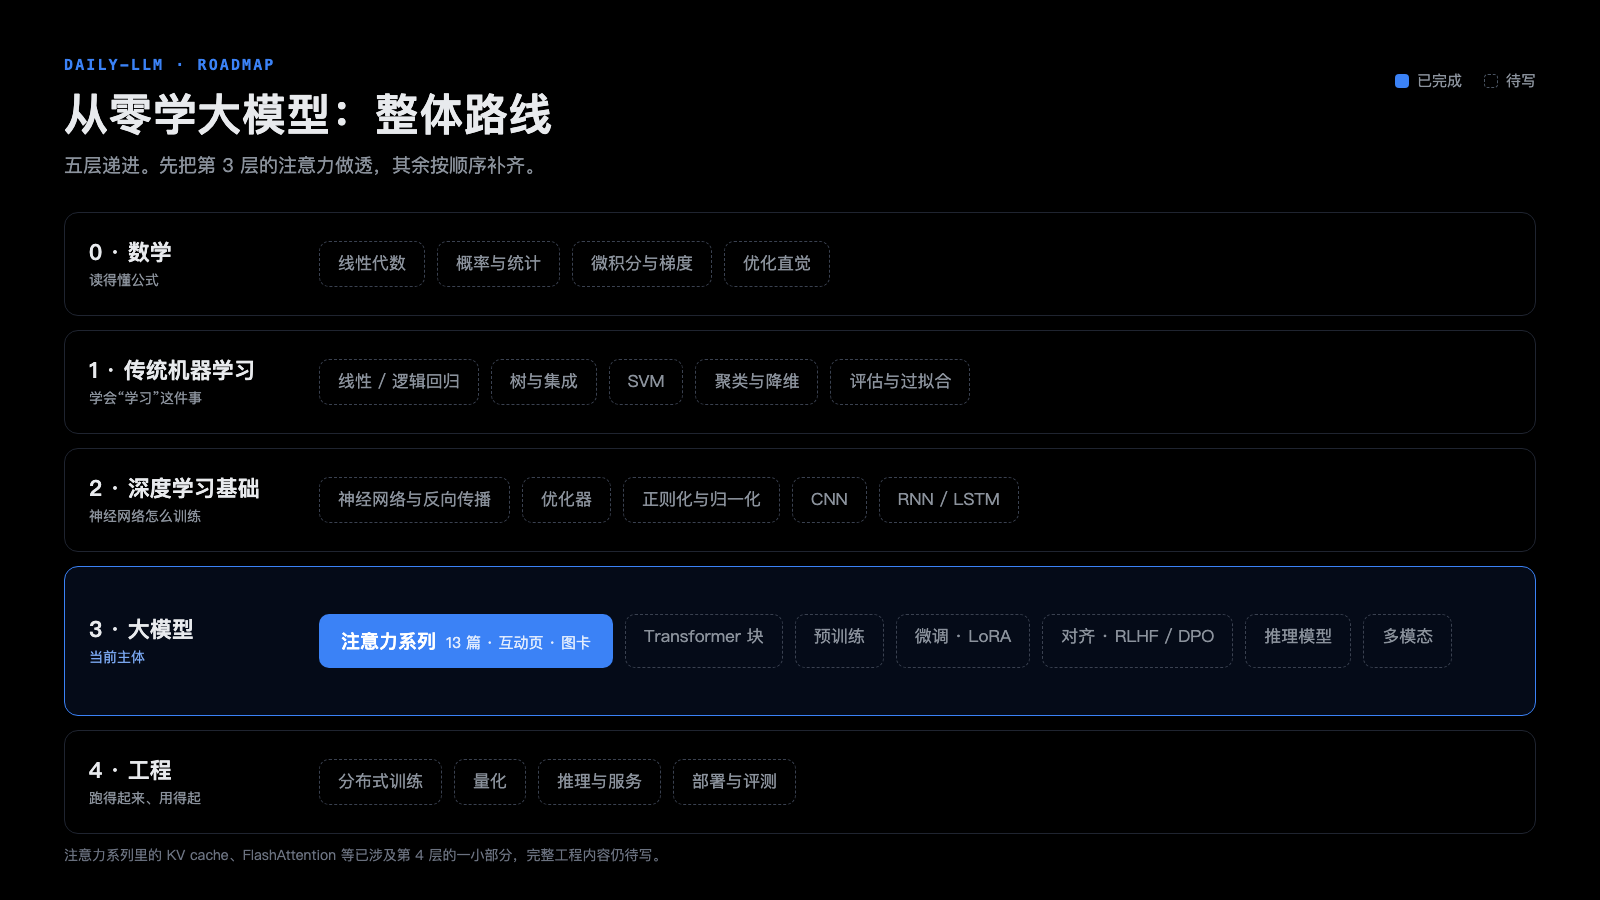
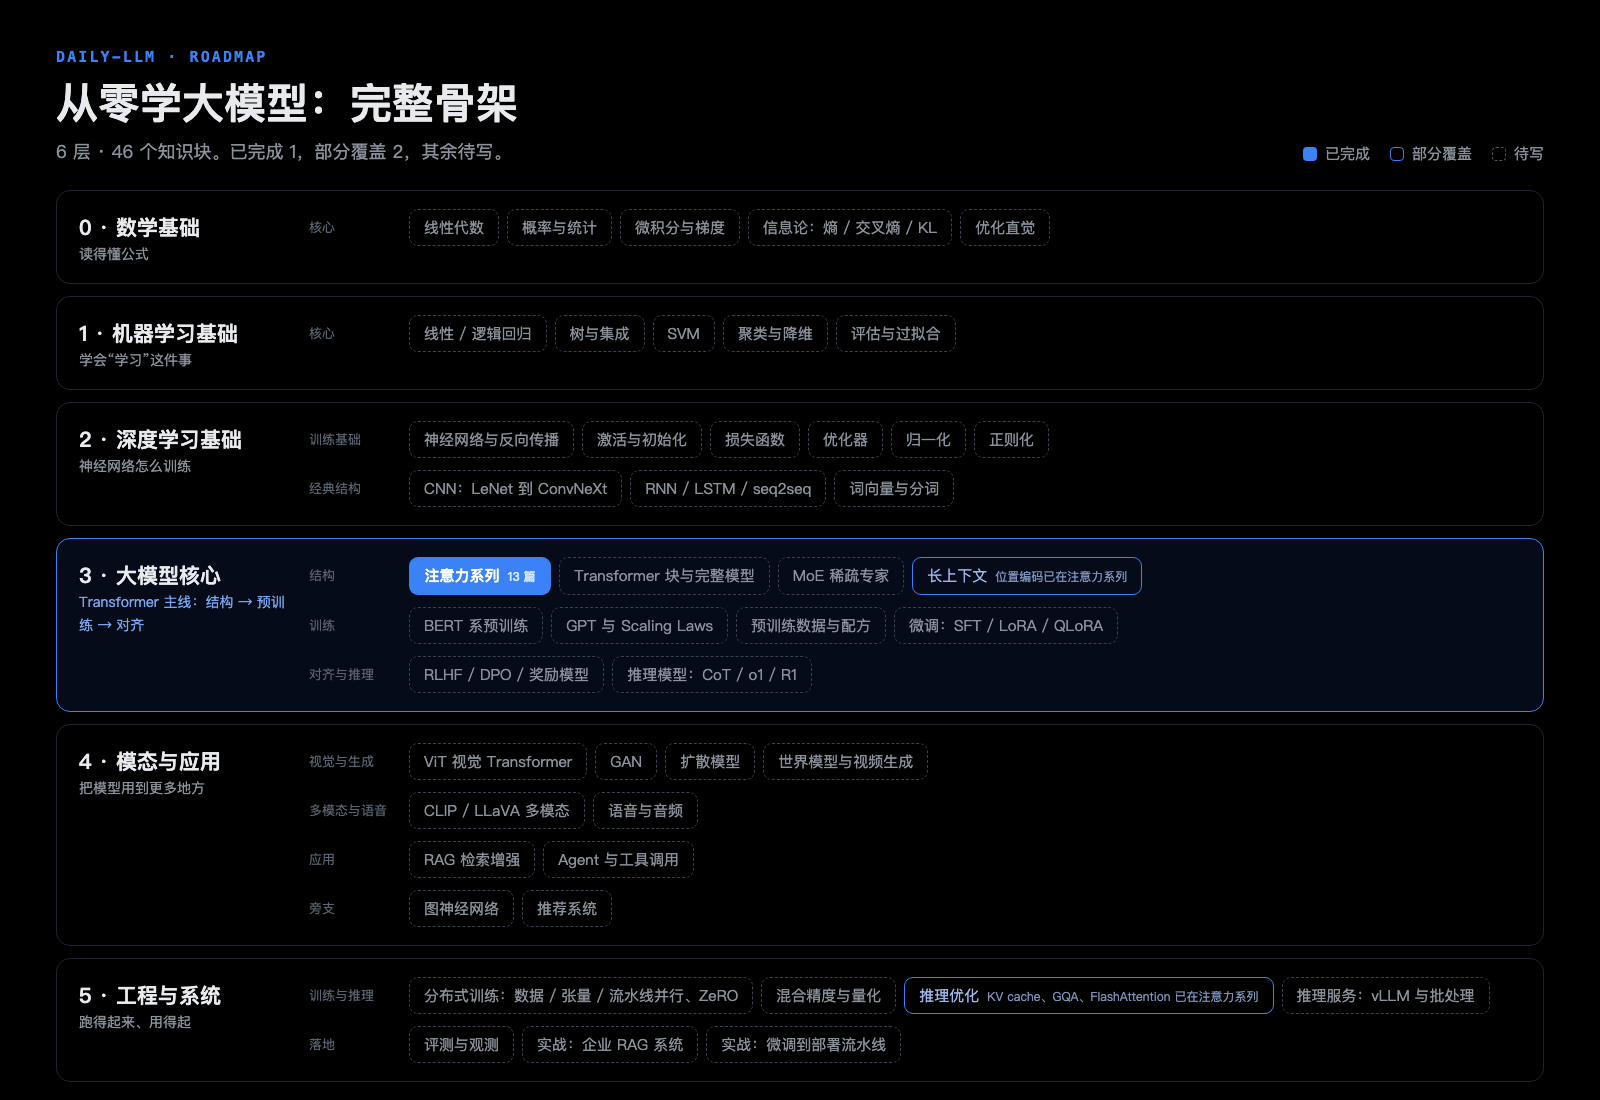
docs: 完整骨架路线图（6 层 46 个知识块，数据源 roadmap.json）

diff --git a/.github/assets/roadmap.html b/.github/assets/roadmap.html
@@ -1,35 +1,38 @@
 <!doctype html><html lang="zh-CN"><meta charset="utf-8"><style>
 *{box-sizing:border-box;margin:0}
-body{width:1600px;height:900px;background:#000;color:#e8eaed;font:16px/1.4 "PingFang SC","SF Pro Text",-apple-system,sans-serif;padding:56px 64px}
-.k{font:700 15px "SF Mono",Menlo,monospace;letter-spacing:.14em;color:#3b82f6}
-h1{font-size:44px;margin:10px 0 6px;letter-spacing:.01em}
-.sub{color:#8b929c;font-size:19px}
-.leg{position:absolute;right:64px;top:70px;display:flex;gap:22px;color:#8b929c;font-size:15px;align-items:center}
+body{width:1600px;background:#000;color:#e8eaed;font:16px/1.4 "PingFang SC","SF Pro Text",-apple-system,sans-serif;padding:48px 56px 40px}
+.k{font:700 15px Menlo,monospace;letter-spacing:.14em;color:#3b82f6}
+h1{font-size:42px;margin:8px 0 6px}.sub{color:#8b929c;font-size:18px}
+.top{display:flex;justify-content:space-between;align-items:flex-end}
+.leg{display:flex;gap:20px;color:#8b929c;font-size:15px;align-items:center}
 .dot{display:inline-block;width:14px;height:14px;border-radius:4px;margin-right:8px;vertical-align:-2px}
-.d1{background:#3b82f6}.d2{border:1.5px dashed #4b5563}
-.rows{margin-top:34px;display:flex;flex-direction:column;gap:14px}
-.row{display:flex;align-items:center;border:1px solid #1f2430;border-radius:14px;padding:0 24px;height:104px}
-.row.on{border-color:#3b82f6;background:#050b18;height:150px}
-.lab{width:230px;flex:none}
-.lab b{display:block;font-size:22px}.lab small{color:#8b929c;font-size:14px}
+.rows{margin-top:26px;display:flex;flex-direction:column;gap:12px}
+.row{display:flex;border:1px solid #1f2430;border-radius:14px;padding:18px 22px;gap:20px}
+.row.on{border-color:#3b82f6;background:#050b18}
+.lab{width:210px;flex:none;padding-top:4px}.lab b{display:block;font-size:21px}.lab small{color:#8b929c;font-size:14px}
 .row.on .lab small{color:#7aa7f0}
-.chips{display:flex;gap:12px;flex-wrap:wrap}
-.c{padding:10px 18px;border-radius:10px;border:1.5px dashed #3a4150;color:#8b929c;font-size:17px}
-.c.ok{background:#3b82f6;border:0;color:#fff;font-weight:700;font-size:19px;padding:14px 22px}
-.c.ok i{font-style:normal;font-weight:400;opacity:.85;margin-left:10px;font-size:15px}
-.arr{position:absolute;left:30px;top:268px;height:540px;width:2px;background:linear-gradient(#1f2430,#3b82f6)}
-.foot{position:absolute;left:64px;bottom:34px;color:#6b7280;font-size:14px}
+.gs{display:flex;flex-direction:column;gap:12px;flex:1}
+.g{display:flex;gap:14px;align-items:flex-start}
+.gn{width:86px;flex:none;color:#5b6472;font-size:13px;padding-top:9px}
+.chips{display:flex;gap:8px;flex-wrap:wrap}
+.c{padding:7px 14px;border-radius:9px;border:1.5px dashed #3a4150;color:#8b929c;font-size:15px}
+.c i{font-style:normal;margin-left:8px;font-size:12px;opacity:.8}
+.c.done{background:#3b82f6;border:0;color:#fff;font-weight:700;padding:8.5px 15.5px}
+.c.partial{border:1.5px solid #3b82f6;color:#9db8ea}
 </style><body>
-<div class="k">DAILY-LLM · ROADMAP</div>
-<h1>从零学大模型：整体路线</h1>
-<div class="sub">五层递进。先把第 3 层的注意力做透，其余按顺序补齐。</div>
-<div class="leg"><span><span class="dot d1"></span>已完成</span><span><span class="dot d2"></span>待写</span></div>
-<div class="rows">
-<div class="row"><div class="lab"><b>0 · 数学</b><small>读得懂公式</small></div><div class="chips"><span class="c">线性代数</span><span class="c">概率与统计</span><span class="c">微积分与梯度</span><span class="c">优化直觉</span></div></div>
-<div class="row"><div class="lab"><b>1 · 传统机器学习</b><small>学会“学习”这件事</small></div><div class="chips"><span class="c">线性 / 逻辑回归</span><span class="c">树与集成</span><span class="c">SVM</span><span class="c">聚类与降维</span><span class="c">评估与过拟合</span></div></div>
-<div class="row"><div class="lab"><b>2 · 深度学习基础</b><small>神经网络怎么训练</small></div><div class="chips"><span class="c">神经网络与反向传播</span><span class="c">优化器</span><span class="c">正则化与归一化</span><span class="c">CNN</span><span class="c">RNN / LSTM</span></div></div>
-<div class="row on"><div class="lab"><b>3 · 大模型</b><small>当前主体</small></div><div class="chips"><span class="c ok">注意力系列<i>13 篇 · 互动页 · 图卡</i></span><span class="c">Transformer 块</span><span class="c">预训练</span><span class="c">微调 · LoRA</span><span class="c">对齐 · RLHF / DPO</span><span class="c">推理模型</span><span class="c">多模态</span></div></div>
-<div class="row"><div class="lab"><b>4 · 工程</b><small>跑得起来、用得起</small></div><div class="chips"><span class="c">分布式训练</span><span class="c">量化</span><span class="c">推理与服务</span><span class="c">部署与评测</span></div></div>
-</div>
-<div class="foot">注意力系列里的 KV cache、FlashAttention 等已涉及第 4 层的一小部分，完整工程内容仍待写。</div>
-</body></html>
+<div class="top"><div><div class="k">DAILY-LLM · ROADMAP</div><h1>从零学大模型：完整骨架</h1>
+<div class="sub">6 层 · 46 个知识块。已完成 1，部分覆盖 2，其余待写。</div></div>
+<div class="leg"><span><span class="dot" style="background:#3b82f6"></span>已完成</span><span><span class="dot" style="border:1.5px solid #3b82f6"></span>部分覆盖</span><span><span class="dot" style="border:1.5px dashed #4b5563"></span>待写</span></div></div>
+<div class="rows"><div class="row">
+<div class="lab"><b>0 · 数学基础</b><small>读得懂公式</small></div>
+<div class="gs"><div class="g"><div class="gn">核心</div><div class="chips"><span class="c planned">线性代数</span><span class="c planned">概率与统计</span><span class="c planned">微积分与梯度</span><span class="c planned">信息论：熵 / 交叉熵 / KL</span><span class="c planned">优化直觉</span></div></div></div></div><div class="row">
+<div class="lab"><b>1 · 机器学习基础</b><small>学会“学习”这件事</small></div>
+<div class="gs"><div class="g"><div class="gn">核心</div><div class="chips"><span class="c planned">线性 / 逻辑回归</span><span class="c planned">树与集成</span><span class="c planned">SVM</span><span class="c planned">聚类与降维</span><span class="c planned">评估与过拟合</span></div></div></div></div><div class="row">
+<div class="lab"><b>2 · 深度学习基础</b><small>神经网络怎么训练</small></div>
+<div class="gs"><div class="g"><div class="gn">训练基础</div><div class="chips"><span class="c planned">神经网络与反向传播</span><span class="c planned">激活与初始化</span><span class="c planned">损失函数</span><span class="c planned">优化器</span><span class="c planned">归一化</span><span class="c planned">正则化</span></div></div><div class="g"><div class="gn">经典结构</div><div class="chips"><span class="c planned">CNN：LeNet 到 ConvNeXt</span><span class="c planned">RNN / LSTM / seq2seq</span><span class="c planned">词向量与分词</span></div></div></div></div><div class="row on">
+<div class="lab"><b>3 · 大模型核心</b><small>Transformer 主线：结构 → 预训练 → 对齐</small></div>
+<div class="gs"><div class="g"><div class="gn">结构</div><div class="chips"><span class="c done">注意力系列<i>13 篇</i></span><span class="c planned">Transformer 块与完整模型</span><span class="c planned">MoE 稀疏专家</span><span class="c partial">长上下文<i>位置编码已在注意力系列</i></span></div></div><div class="g"><div class="gn">训练</div><div class="chips"><span class="c planned">BERT 系预训练</span><span class="c planned">GPT 与 Scaling Laws</span><span class="c planned">预训练数据与配方</span><span class="c planned">微调：SFT / LoRA / QLoRA</span></div></div><div class="g"><div class="gn">对齐与推理</div><div class="chips"><span class="c planned">RLHF / DPO / 奖励模型</span><span class="c planned">推理模型：CoT / o1 / R1</span></div></div></div></div><div class="row">
+<div class="lab"><b>4 · 模态与应用</b><small>把模型用到更多地方</small></div>
+<div class="gs"><div class="g"><div class="gn">视觉与生成</div><div class="chips"><span class="c planned">ViT 视觉 Transformer</span><span class="c planned">GAN</span><span class="c planned">扩散模型</span><span class="c planned">世界模型与视频生成</span></div></div><div class="g"><div class="gn">多模态与语音</div><div class="chips"><span class="c planned">CLIP / LLaVA 多模态</span><span class="c planned">语音与音频</span></div></div><div class="g"><div class="gn">应用</div><div class="chips"><span class="c planned">RAG 检索增强</span><span class="c planned">Agent 与工具调用</span></div></div><div class="g"><div class="gn">旁支</div><div class="chips"><span class="c planned">图神经网络</span><span class="c planned">推荐系统</span></div></div></div></div><div class="row">
+<div class="lab"><b>5 · 工程与系统</b><small>跑得起来、用得起</small></div>
+<div class="gs"><div class="g"><div class="gn">训练与推理</div><div class="chips"><span class="c planned">分布式训练：数据 / 张量 / 流水线并行、ZeRO</span><span class="c planned">混合精度与量化</span><span class="c partial">推理优化<i>KV cache、GQA、FlashAttention 已在注意力系列</i></span><span class="c planned">推理服务：vLLM 与批处理</span></div></div><div class="g"><div class="gn">落地</div><div class="chips"><span class="c planned">评测与观测</span><span class="c planned">实战：企业 RAG 系统</span><span class="c planned">实战：微调到部署流水线</span></div></div></div></div></div></body></html>

diff --git a/learn/ROADMAP.md b/learn/ROADMAP.md
@@ -1,0 +1,94 @@
+# 从零学大模型：完整骨架
+
+> 由 [roadmap.json](roadmap.json) 生成（`node learn/build-roadmap.mjs`）。6 层、46 个知识块：已完成 1，部分覆盖 2，待写 43。
+> “旧版素材”指 `_archive/v1/` 里可取材的旧内容（质量未重新核对，写新版时需重写）。
+
+![](../.github/assets/roadmap.png)
+
+## 0 · 数学基础
+
+读得懂公式
+
+| 分组 | 知识块 | 状态 | 说明 / 旧版素材 |
+|---|---|---|---|
+| 核心 | 线性代数 | 待写 |  |
+| 核心 | 概率与统计 | 待写 |  |
+| 核心 | 微积分与梯度 | 待写 |  |
+| 核心 | 信息论：熵 / 交叉熵 / KL | 待写 |  |
+| 核心 | 优化直觉 | 待写 |  |
+
+## 1 · 机器学习基础
+
+学会“学习”这件事
+
+| 分组 | 知识块 | 状态 | 说明 / 旧版素材 |
+|---|---|---|---|
+| 核心 | 线性 / 逻辑回归 | 待写 |  |
+| 核心 | 树与集成 | 待写 |  |
+| 核心 | SVM | 待写 |  |
+| 核心 | 聚类与降维 | 待写 |  |
+| 核心 | 评估与过拟合 | 待写 |  |
+
+## 2 · 深度学习基础
+
+神经网络怎么训练
+
+| 分组 | 知识块 | 状态 | 说明 / 旧版素材 |
+|---|---|---|---|
+| 训练基础 | 神经网络与反向传播 | 待写 | `foundations/01` |
+| 训练基础 | 激活与初始化 | 待写 | `foundations/02,05` |
+| 训练基础 | 损失函数 | 待写 | `foundations/06` |
+| 训练基础 | 优化器 | 待写 | `foundations/03` |
+| 训练基础 | 归一化 | 待写 | `foundations/04` |
+| 训练基础 | 正则化 | 待写 | `foundations/07` |
+| 经典结构 | CNN：LeNet 到 ConvNeXt | 待写 | `01-cnn` |
+| 经典结构 | RNN / LSTM / seq2seq | 待写 | `02-rnn-lstm` |
+| 经典结构 | 词向量与分词 | 待写 | `03-word-embedding, foundations/09` |
+
+## 3 · 大模型核心
+
+Transformer 主线：结构 → 预训练 → 对齐
+
+| 分组 | 知识块 | 状态 | 说明 / 旧版素材 |
+|---|---|---|---|
+| 结构 | [注意力系列](3-llm/01-attention/) | 已完成 | 13 篇 |
+| 结构 | Transformer 块与完整模型 | 待写 | `05-transformer` |
+| 结构 | MoE 稀疏专家 | 待写 | `13-moe-efficient` |
+| 结构 | 长上下文 | 部分覆盖 | 位置编码已在注意力系列 |
+| 训练 | BERT 系预训练 | 待写 | `06-bert-family` |
+| 训练 | GPT 与 Scaling Laws | 待写 | `07-gpt-scaling` |
+| 训练 | 预训练数据与配方 | 待写 |  |
+| 训练 | 微调：SFT / LoRA / QLoRA | 待写 | `11-peft-lora` |
+| 对齐与推理 | RLHF / DPO / 奖励模型 | 待写 | `12-rlhf-alignment` |
+| 对齐与推理 | 推理模型：CoT / o1 / R1 | 待写 | `15-reasoning-o1-r1` |
+
+## 4 · 模态与应用
+
+把模型用到更多地方
+
+| 分组 | 知识块 | 状态 | 说明 / 旧版素材 |
+|---|---|---|---|
+| 视觉与生成 | ViT 视觉 Transformer | 待写 | `08-vit` |
+| 视觉与生成 | GAN | 待写 | `04-gan` |
+| 视觉与生成 | 扩散模型 | 待写 | `10-diffusion` |
+| 视觉与生成 | 世界模型与视频生成 | 待写 | `16-world-models` |
+| 多模态与语音 | CLIP / LLaVA 多模态 | 待写 | `09-multimodal-clip` |
+| 多模态与语音 | 语音与音频 | 待写 | `18-speech-audio` |
+| 应用 | RAG 检索增强 | 待写 | `14-rag-agent` |
+| 应用 | Agent 与工具调用 | 待写 | `14-rag-agent` |
+| 旁支 | 图神经网络 | 待写 | `17-graph-neural-networks` |
+| 旁支 | 推荐系统 | 待写 | `19-recommendation` |
+
+## 5 · 工程与系统
+
+跑得起来、用得起
+
+| 分组 | 知识块 | 状态 | 说明 / 旧版素材 |
+|---|---|---|---|
+| 训练与推理 | 分布式训练：数据 / 张量 / 流水线并行、ZeRO | 待写 |  |
+| 训练与推理 | 混合精度与量化 | 待写 |  |
+| 训练与推理 | 推理优化 | 部分覆盖 | KV cache、GQA、FlashAttention 已在注意力系列 |
+| 训练与推理 | 推理服务：vLLM 与批处理 | 待写 |  |
+| 落地 | 评测与观测 | 待写 |  |
+| 落地 | 实战：企业 RAG 系统 | 待写 | `projects/enterprise-rag-system` |
+| 落地 | 实战：微调到部署流水线 | 待写 | `projects/finetune-deploy-pipeline` |

diff --git a/README.md b/README.md
@@ -1,10 +1,10 @@
 <div align="center">
 
-<img src=".github/assets/roadmap.png" alt="从零学大模型：整体路线（五层，已完成与待写）" width="100%" />
+<img src=".github/assets/roadmap.png" alt="从零学大模型：完整骨架（6 层 46 个知识块）" width="100%" />
 
 # Daily-LLM：从零学大模型
 
-### 从数学到工程的五层路线，讲解 · 互动页 · TikTok 图卡，一份源码三种出口
+### 从数学到工程的完整骨架：6 层 · 46 个知识块，讲解 · 互动页 · TikTok 图卡，一份源码三种出口
 
 <p>
   <a href="https://zkywsg.github.io/Daily-LLM/"><strong>在线读 / 玩</strong></a>
@@ -26,17 +26,18 @@
 
 ## 这是什么
 
-一个从零开始学机器学习、深度学习、大模型的资料库，目标是把**整条路线**走完：
+一个从零开始学机器学习、深度学习、大模型的资料库，目标是把**整条路线**走完，同时服务自学、TikTok 图文和 GitHub 分享。完整骨架见上图，逐项清单与旧版素材对照见 [learn/ROADMAP.md](learn/ROADMAP.md)。
 
-| 层 | 内容 | 状态 |
+| 层 | 内容 | 已完成 / 总数 |
 |---|---|---|
-| 0 数学 | 线性代数、概率与统计、微积分与梯度、优化直觉 | 待写 |
-| 1 传统机器学习 | 回归、树与集成、SVM、聚类与降维、评估 | 待写 |
-| 2 深度学习基础 | 反向传播、优化器、正则化与归一化、CNN、RNN | 待写 |
-| 3 大模型 | **注意力系列（13 篇，已完成）** · Transformer 块 · 预训练 · 微调 · 对齐 · 推理模型 · 多模态 | 进行中 |
-| 4 工程 | 分布式训练、量化、推理与服务、部署与评测 | 待写 |
+| 0 数学基础 | 线性代数、概率统计、微积分、信息论、优化直觉 | 0 / 5 |
+| 1 机器学习基础 | 回归、树与集成、SVM、聚类降维、评估 | 0 / 5 |
+| 2 深度学习基础 | 反传、激活、损失、优化器、归一化、正则化；CNN、RNN、词向量 | 0 / 9 |
+| 3 大模型核心 | **注意力系列（已完成）**、Transformer 块、MoE、长上下文；BERT/GPT、预训练、微调；RLHF/DPO、推理模型 | 1 / 10（另有 1 项部分覆盖） |
+| 4 模态与应用 | ViT、GAN、扩散、世界模型；多模态、语音；RAG、Agent；图神经网络、推荐 | 0 / 10 |
+| 5 工程与系统 | 分布式训练、量化、推理优化、推理服务、评测、两个实战项目 | 0 / 7（另有 1 项部分覆盖） |
 
-**目前只完成了第 3 层里的注意力系列**，用它把“讲解 + 互动页 + 图卡”的做法跑通；其余层按路线逐步补齐，上图里虚线框就是还没做的部分。
+**目前只完成了注意力系列**，用它把“讲解 + 互动页 + 图卡”的做法跑通；上图里虚线框是还没做的部分。待写项里很多在旧版（`_archive/v1/`）有素材，写新版时取材、重写。
 
 每个知识点按五层写：一句话 → 白话 → 手算 → 数学推导 → 代码与练习。每篇都配：
 

diff --git a/learn/README.md b/learn/README.md
@@ -1,14 +1,8 @@
 # 从 0 学机器学习、深度学习与大模型
 
-按五层递进。每个知识点配三样东西：讲解 `README.md`、互动演示 `demo/`、社媒图卡 `cards/`。
+完整骨架（6 层、46 个知识块、每项状态和旧版素材对照）见 **[ROADMAP.md](ROADMAP.md)**，数据源是 [roadmap.json](roadmap.json)，改完后运行 `node learn/build-roadmap.mjs` 重新生成路线图和清单。
 
-| 层 | 内容 | 状态 |
-|---|---|---|
-| 0 数学 | 线性代数、概率、微积分、优化直觉 | 待写 |
-| 1 传统机器学习 | 回归、树、SVM、聚类、评估 | 待写 |
-| 2 深度学习基础 | 神经网络、反向传播、优化、正则化 | 待写 |
-| 3 大模型 | [01 注意力基础](3-llm/01-attention/) · [02 多头](3-llm/02-multihead/) · [03 掩码与位置](3-llm/03-mask-position/) · Transformer · 预训练 · 对齐 · 推理模型 | 进行中（见下：注意力深度系列） |
-| 4 工程 | 训练、量化、推理、部署 | 待写 |
+每个知识点配三样东西：讲解 `README.md`、互动演示 `demo/`、社媒图卡 `cards/`。
 
 设计思路见 [../docs/superpowers/specs/2026-11-23-visual-sharing-design.md](../docs/superpowers/specs/2026-11-23-visual-sharing-design.md)。
 
